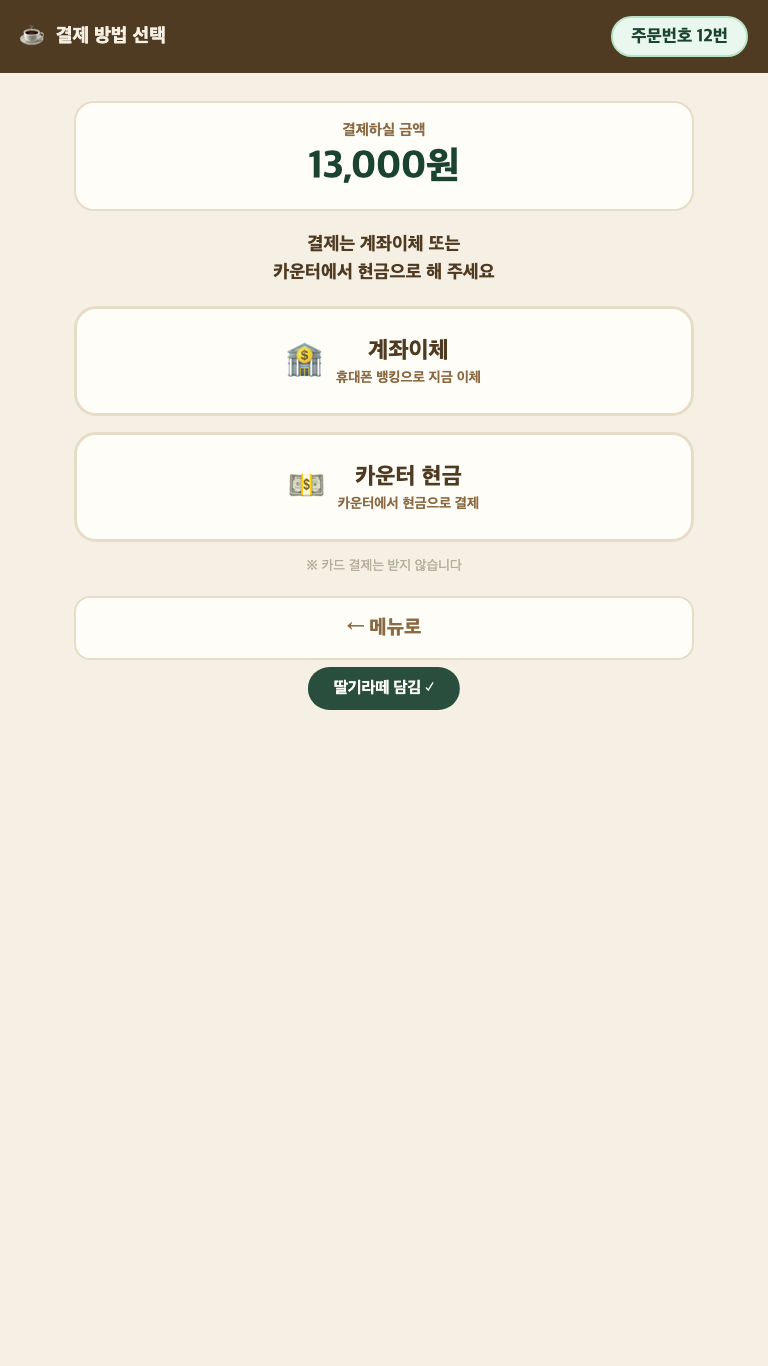
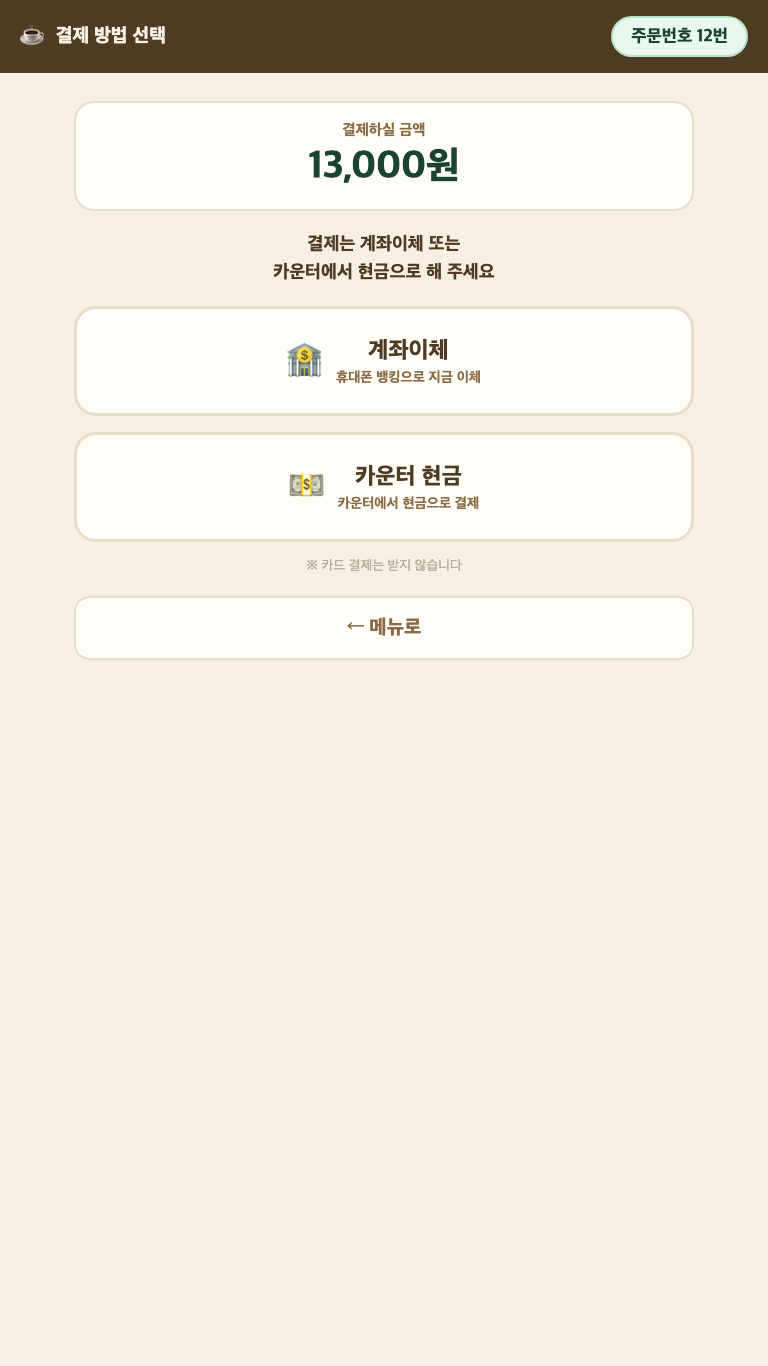
키오스크: 토스트 하단 고정·화면 전환 시 즉시 숨김, 계좌번호 복사 버튼, 대기화면 결제 안내 강조
- 담기 토스트가 결제선택·계좌이체·완료 화면까지 남던 문제 수정
  (showScreen에서 hideToast — transition 없이 즉시 숨김, 위치는 fixed 하단)
- 계좌이체·완료 화면에 큰 「계좌번호 복사」 버튼 추가
  (navigator.clipboard → 실패 시 textarea+execCommand 폴백, 복사값 3010383688311)
- 대기 화면 결제 안내 문구(계좌이체/카운터 현금·카드 불가)를 크고 밝은 박스로 강조
- node tests/check-menu.mjs · tests/kiosk-flow.mjs 통과, docs/screens 스크린샷 갱신

Changed region(s): [[0.4062, 0.4612, 0.5938, 0.5227]]

diff --git a/kiosk.html b/kiosk.html
@@ -104,7 +104,12 @@
       animation: breathe 2.2s ease-in-out infinite;
     }
     @keyframes breathe { 0%,100% { transform: scale(1); opacity: 1; } 50% { transform: scale(1.04); opacity: 0.82; } }
-    .idle-note { margin-top: 36px; font-size: 0.85rem; color: #A98F66; line-height: 1.6; }
+    .idle-note {
+      margin-top: 36px; font-size: 1.2rem; font-weight: 800;
+      color: #F6EFE3; line-height: 1.7;
+      background: rgba(64,145,108,0.3); border: 1.5px solid rgba(183,228,199,0.5);
+      border-radius: 16px; padding: 14px 26px;
+    }
 
     /* ═══ 공용 상단 바 ═══ */
     .ktop {
@@ -320,6 +325,14 @@
     .acct-holder { font-size: 1.05rem; font-weight: 800; color: var(--wood-dark); }
     .acct-raw { margin-top: 10px; font-size: 0.88rem; color: var(--wood-mid); }
     .acct-raw b { font-size: 1rem; color: var(--wood-dark); letter-spacing: 0.5px; }
+    .acct-copy-btn {
+      margin-top: 16px; width: 100%; min-height: 68px;
+      border: none; border-radius: 16px;
+      background: var(--green-dark); color: #fff;
+      font-size: 1.3rem; font-weight: 900;
+      display: flex; align-items: center; justify-content: center; gap: 10px;
+    }
+    .acct-copy-btn:active { background: var(--green-deep); }
     .depositor-note {
       background: #FEF3C7; border: 2px solid #FDE68A; border-radius: 16px;
       padding: 14px 16px; text-align: center;
@@ -368,9 +381,9 @@
     .dlg-foot  { display: flex; gap: 10px; margin-top: 24px; }
     .dlg-foot .big-btn { flex: 1; font-size: 1.1rem; }
 
-    /* 토스트 */
+    /* 토스트 — 항상 화면 하단에 고정, 화면 전환 시 hideToast()로 즉시 사라진다 */
     .toast {
-      position: fixed; bottom: 48vh; left: 50%;
+      position: fixed; bottom: calc(env(safe-area-inset-bottom, 0px) + 32px); left: 50%;
       transform: translateX(-50%);
       background: var(--green-deep); color: #fff;
       padding: 12px 26px; border-radius: 999px;
@@ -484,6 +497,7 @@
       <div class="acct-num">301-0383-6883-11</div>
       <div class="acct-holder">예금주 · 기쁜소식부산대연교회</div>
       <div class="acct-raw">계좌번호 원문(하이픈 없이) <b>3010383688311</b></div>
+      <button class="acct-copy-btn" id="acctCopyBtn" onclick="copyAccount()">📋 계좌번호 복사</button>
     </div>
     <div class="depositor-note" id="transferDepositorNote">입금자명에 주문번호 <b>—번</b>을 함께 적어 주세요<br><span style="font-size:0.9rem;font-weight:700">(예: 홍길동—번)</span></div>
     <div class="pay-foot">
@@ -557,6 +571,38 @@ function showToast(msg) {
   el.textContent = msg; el.classList.add("show");
   clearTimeout(showToast._t);
   showToast._t = setTimeout(() => el.classList.remove("show"), 2000);
+}
+function hideToast() {
+  clearTimeout(showToast._t);
+  const el = document.getElementById("toast");
+  el.style.transition = "none";          // 화면 전환 시에는 페이드 없이 즉시 숨김
+  el.classList.remove("show");
+  void el.offsetWidth;                   // 강제 reflow 후 transition 복원
+  el.style.transition = "";
+}
+/* 계좌번호 복사 — 키오스크 웹뷰에서 clipboard API가 막힌 경우 execCommand 폴백 */
+const ACCT_RAW = "3010383688311";
+function copyAccount() {
+  const done = () => showToast("계좌번호가 복사되었습니다 ✓");
+  const failMsg = () => showToast("복사에 실패했습니다 — 화면의 번호를 보고 입력해 주세요");
+  const fallback = () => {
+    try {
+      const ta = document.createElement("textarea");
+      ta.value = ACCT_RAW;
+      ta.setAttribute("readonly", "");
+      ta.style.cssText = "position:fixed;top:0;left:0;opacity:0;";
+      document.body.appendChild(ta);
+      ta.focus(); ta.select(); ta.setSelectionRange(0, ta.value.length);
+      const ok = document.execCommand("copy");
+      document.body.removeChild(ta);
+      ok ? done() : failMsg();
+    } catch (e) { failMsg(); }
+  };
+  if (navigator.clipboard && navigator.clipboard.writeText) {
+    navigator.clipboard.writeText(ACCT_RAW).then(done).catch(fallback);
+  } else {
+    fallback();
+  }
 }
 /* 확대·길게누르기 메뉴 차단 */
 document.addEventListener("contextmenu", e => e.preventDefault());
@@ -680,6 +726,7 @@ let saving    = false;
 /* ═══════════ 화면 전환 ═══════════ */
 function showScreen(name) {
   screen = name;
+  hideToast();   // 이전 화면의 「담김 ✓」 등이 다음 화면까지 남지 않도록
   document.querySelectorAll(".kscreen").forEach(s => s.classList.remove("active"));
   document.getElementById(`screen-${name}`).classList.add("active");
   armIdleTimer();
@@ -1015,6 +1062,7 @@ function showDone() {
          <div class="acct-num">301-0383-6883-11</div>
          <div class="acct-holder">NH농협 · 예금주 기쁜소식부산대연교회</div>
          <div class="acct-raw">아직 이체 전이라면 지금 보내 주세요 — 입금자명에 <b>${o.customerNumber}번</b></div>
+         <button class="acct-copy-btn" id="doneAcctCopyBtn" onclick="copyAccount()">📋 계좌번호 복사</button>
        </div>`
     : `<div class="depositor-note">💵 카운터에서 현금 ${won(o.total)}을<br>결제해 주세요</div>`;
   const lines = o.items.map(it =>
